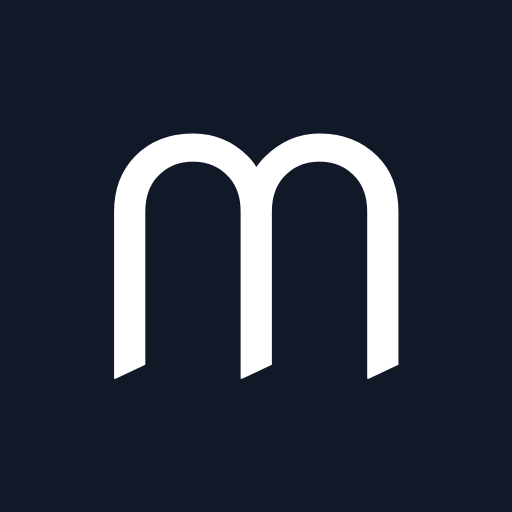
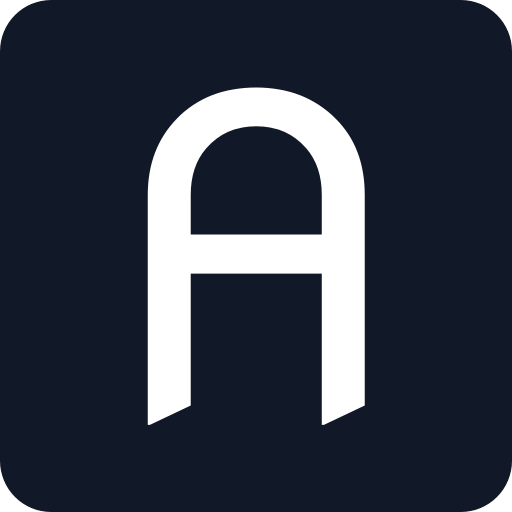
added items.block_id and connected backend changes

diff --git a/backend/src/repository/items.repository.postgres.ts b/backend/src/repository/items.repository.postgres.ts
@@ -23,23 +23,38 @@ export async function getPracticeBlockRepository(
           SELECT COUNT(*) AS learned_count
           FROM user_items ui
           JOIN items i ON ui.item_id = i.id
-          JOIN block_items bi ON i.id = bi.item_id
-          JOIN blocks b ON bi.block_id = b.id
+          JOIN blocks b ON i.block_id = b.id
           WHERE b.category_id = 4
             AND b.language_id = $2
             AND ui.user_id = (SELECT user_id FROM user_cte)
             AND ui.learned_at IS NOT NULL
         ),
-        block_to_learn_cte as (
-          SELECT b.id AS block_id, ub.progress
+        block_to_learn_cte as ( 
+          SELECT b.id AS block_id, ub.progress AS block_progress
           FROM blocks b
           LEFT JOIN user_blocks ub ON b.id = ub.block_id AND ub.user_id = (SELECT user_id FROM user_cte)
-          JOIN categories c ON c.id = b.category_id AND b.category_id in (1,2) AND b.language_id = $2
           WHERE ub.finished_at IS NULL
             AND (ub.next_at IS NULL OR ub.next_at < NOW())
             AND b.sequence <= (SELECT learned_count FROM learned_count_cte)
+            AND b.language_id = $2
+            AND b.category_id IN (1, 2)
           ORDER BY ub.next_at ASC NULLS LAST, b."sequence"
           LIMIT 1
+        ),
+        has_info_cte AS (
+          SELECT i.id
+          FROM items i
+          JOIN blocks b ON i.block_id = b.id
+          WHERE b.language_id = $2
+            AND b.note_id IS NOT NULL
+
+          UNION
+
+          SELECT bi.item_id AS id
+          FROM block_items bi
+          JOIN blocks b ON bi.block_id = b.id
+          WHERE b.language_id = $2
+            AND b.note_id IS NOT NULL
         )
         SELECT
           i.id,
@@ -47,13 +62,16 @@ export async function getPracticeBlockRepository(
           i.translation,
           i.pronunciation,
           i.audio,
-          COALESCE((select progress from block_to_learn_cte), 0) AS progress,
-          b.note_id IS NOT NULL AS "hasContextInfo",
+          COALESCE((select block_progress from block_to_learn_cte), 0) AS progress,          
+          EXISTS ( 
+            SELECT 1
+            FROM has_info_cte
+            WHERE has_info_cte.id = i.id
+          ) AS "hasContextInfo",
           (b.note_id IS NOT NULL and i.sequence = 1) AS "showContextInfo",
           b.id AS "blockId"
         FROM items i
-        JOIN block_items bi ON bi.item_id = i.id 
-        JOIN blocks b ON b.id = bi.block_id AND b.id = (SELECT block_id FROM block_to_learn_cte)
+        JOIN blocks b ON b.id = i.block_id AND b.id = (SELECT block_id FROM block_to_learn_cte)
       `;
 
       const res = await withDbClient(db, async (client) => {
@@ -86,18 +104,25 @@ export async function getPracticeItemsRepository(
 
     const runQuery = async (): Promise<Item[]> => {
       const query = `
-        WITH user_cte AS (
+        WITH user_cte AS ( 
           SELECT id AS user_id 
           FROM users 
           WHERE uid = $1
         ),
-        has_info_cte AS (
-          SELECT bi.item_id
+        has_info_cte AS ( 
+          SELECT i.id
+          FROM items i
+          JOIN blocks b ON i.block_id = b.id
+          WHERE b.language_id = $2
+            AND b.note_id IS NOT NULL
+
+          UNION
+
+          SELECT bi.item_id AS id
           FROM block_items bi
           JOIN blocks b ON bi.block_id = b.id
-          WHERE b.category_id IN (1,2)
+          WHERE b.language_id = $2
             AND b.note_id IS NOT NULL
-            AND b.language_id = $2
         )
         SELECT
           i.id,
@@ -106,20 +131,15 @@ export async function getPracticeItemsRepository(
           i.pronunciation,
           i.audio,
           COALESCE(ui.progress, 0) AS progress,
-          EXISTS (
+          EXISTS ( 
             SELECT 1
             FROM has_info_cte
-            WHERE has_info_cte.item_id = i.id
+            WHERE has_info_cte.id = i.id
           ) AS "hasContextInfo",
-          EXISTS (
-            SELECT 1
-            FROM has_info_cte
-            WHERE has_info_cte.item_id = i.id AND i.sequence = 1 AND ui.progress IS NULL
-          ) AS "showContextInfo"
+          FALSE AS "showContextInfo" 
         FROM items i 
         LEFT JOIN user_items ui ON i.id = ui.item_id AND ui.user_id = (SELECT user_id FROM user_cte)
-        LEFT JOIN block_items bi ON i.id = bi.item_id 
-        JOIN blocks b ON b.id = bi.block_id AND b.category_id in (1,2,4)
+        JOIN blocks b ON b.id = i.block_id 
         WHERE ui.mastered_at IS NULL
           AND (ui.next_at IS NULL OR ui.next_at < NOW())
           AND (b.category_id = 4 OR ui.progress is not null)
@@ -271,10 +291,20 @@ export async function getItemInfoRepository(
         b.name AS blockName,
         n.note AS blockExplanation
       FROM blocks b
+      JOIN notes n ON b.note_id = n.id
+      WHERE b.id = $1
+
+      UNION
+
+      SELECT 
+        b.id AS blockId,
+        b.sequence AS blockSequence,
+        b.name AS blockName,
+        n.note AS blockExplanation
+      FROM blocks b
       JOIN block_items bi ON b.id = bi.block_id
       JOIN notes n ON b.note_id = n.id
-      WHERE bi.item_id = $1
-        AND b.category_id = 1;
+      WHERE b.id = $1
     `;
 
     const res = await withDbClient(db, async (client) => {
@@ -284,7 +314,7 @@ export async function getItemInfoRepository(
     return res.rows;
   } catch (error) {
     throw new Error(
-      `Error in getItemInforRepository: ${
+      `Error in getItemInfoRepository: ${
         (error as any).message
       } | db type: ${typeof db} | itemId: ${itemId}`
     );
@@ -311,9 +341,8 @@ export async function getUserItemsListRepository(
           SELECT bi.item_id
           FROM block_items bi
           JOIN blocks b ON bi.block_id = b.id
-          WHERE b.category_id IN (1,2)
+          WHERE b.language_id = $2
             AND b.note_id IS NOT NULL
-            AND b.language_id = $2
         )
         SELECT
           i.id,
@@ -333,8 +362,7 @@ export async function getUserItemsListRepository(
           FALSE AS "showContextInfo"
         FROM items i 
         JOIN user_items ui ON i.id = ui.item_id AND ui.user_id = (SELECT user_id FROM user_cte)
-        LEFT JOIN block_items bi ON i.id = bi.item_id
-        LEFT JOIN blocks b ON bi.block_id = b.id
+        JOIN blocks b ON i.block_id = b.id
         WHERE b.category_id = 4
           AND b.language_id = $2
         ORDER BY

diff --git a/backend/src/utils/items.utils.ts b/backend/src/utils/items.utils.ts
@@ -2,19 +2,15 @@ import { Item } from "../../../shared/types/dataTypes";
 
 export default function sortItemsEvenOdd(items: Item[]): Item[] {
   try {
-    // Sorts items even first, then odd items. Stable sort by original index.
-    return items
-      .map((item, idx) => ({ item, idx }))
-      .sort((a, b) => {
-        const isEvenA = a.item.progress % 2 === 0;
-        const isEvenB = b.item.progress % 2 === 0;
-        if (isEvenA && !isEvenB) return -1;
-        if (!isEvenA && isEvenB) return 1;
-        // Stable: fallback to original index
-        return a.idx - b.idx;
-      })
-      .map(({ item }) => item);
+    // Sorts items even first, then odd items.
+    return items.sort((a, b) => {
+      const isEvenA = a.progress % 2 === 0;
+      const isEvenB = b.progress % 2 === 0;
+      if (isEvenA && !isEvenB) return -1;
+      if (!isEvenA && isEvenB) return 1;
+      return 0;
+    });
   } catch (error) {
-    throw new Error(`Error in sortItemsByProgress: ${(error as any).message}`);
+    throw new Error(`Error in sortItemsEvenOdd: ${(error as any).message}`);
   }
 }

diff --git a/backend/src/services/items.service.ts b/backend/src/services/items.service.ts
@@ -15,7 +15,7 @@ import {
 } from "../repository/items.repository.postgres";
 import {
   getScoreRepository,
-  updateUserScoreRepository,
+  updateUserPracticeBlocksRepository,
 } from "../repository/user.repository.postgres";
 import { addAudioSuffixToItems, formatDatesShort } from "../utils/update.utils";
 import sortItemsEvenOdd from "../utils/items.utils";
@@ -60,7 +60,7 @@ export async function updateUserPracticeService(
   db: PostgresClient,
   uid: string,
   items: Item[],
-  onRoundEnd: boolean,
+  onPracticeBlockEnd: boolean,
   languageId: number
 ): Promise<UserScore[]> {
   const blockId = items[0]?.blockId;
@@ -108,8 +108,8 @@ export async function updateUserPracticeService(
     );
   }
 
-  if (onRoundEnd) {
-    await updateUserScoreRepository(db, uid, languageId);
+  if (onPracticeBlockEnd) {
+    await updateUserPracticeBlocksRepository(db, uid, languageId);
   }
 
   return await getScoreRepository(db, uid);

diff --git a/frontend/src/App.tsx b/frontend/src/App.tsx
@@ -29,7 +29,7 @@ export default function App() {
               path="/"
               element={
                 <div className="flex w-full max-w-[450px] flex-col items-center justify-start gap-4 px-4 pt-6 text-center">
-                  <h1>Minidril</h1>
+                  <h1>Angličtina</h1>
 
                   <p>
                     Trénujte 400 slovíček či 200 vět za 20 minut denně, a
@@ -45,7 +45,7 @@ export default function App() {
                   )}
                   <p className="notice">aplikace v testovacím režimu</p>
                   <p className="">
-                    Rychlý dril. Učební kartičky. Poslouchání a mluvení, žádné
+                    Učební kartičky. Rychlý dril. Poslouchání a mluvení, žádné
                     psaní. Procvičování samostatných slovíček i gramatiky ve
                     větách.
                   </p>

diff --git a/backend/src/controllers/items.controller.ts b/backend/src/controllers/items.controller.ts
@@ -63,15 +63,17 @@ export async function patchPracticeController(
     }
 
     const uid: string = (req as any).user.uid;
-    const { items, onBlockEnd }: { items: Item[]; onBlockEnd: boolean } =
-      req.body;
+    const {
+      items,
+      onPracticeBlockEnd,
+    }: { items: Item[]; onPracticeBlockEnd: boolean } = req.body;
     const languageId: number = parseInt((req as any).params.languageId, 10);
 
     const score: UserScore[] = await updateUserPracticeService(
       postgresDBPool,
       uid,
       items,
-      onBlockEnd,
+      onPracticeBlockEnd,
       languageId
     );
 

diff --git a/frontend/index.html b/frontend/index.html
@@ -5,9 +5,9 @@
   <meta charset="UTF-8" />
   <link rel="icon" type="image/x-icon" href="/favicon.ico" />
   <meta name="viewport" content="width=device-width, initial-scale=1.0" />
-  <meta name="description" content="Angličtina drillem" />
+  <meta name="description" content="Angličtina" />
   <link rel="manifest" href="/manifest.json" />
-  <title>Minidrill</title>
+  <title>Angličtina</title>
 </head>
 
 <body>

diff --git a/backend/src/repository/user.repository.postgres.ts b/backend/src/repository/user.repository.postgres.ts
@@ -70,7 +70,7 @@ export async function resetUserLanguageRepository(
  * @param uid
  * @param languageId
  */
-export async function updateUserScoreRepository(
+export async function updateUserPracticeBlocksRepository(
   db: PostgresClient,
   uid: string,
   languageId: number

diff --git a/README.md b/README.md
@@ -13,11 +13,12 @@ English learning app focused on maximum repetition per given practice time. By u
 
 The app provides continuous practice of vocabulary and grammar with flashcards.
 
-## Database Principles
+## Database
 
 **Basic tables:**
 
-- `users`
+- `users` - identifies user, link firebase uid with databaser users.id
+- `user_score` - to
 - `items` — vocabulary items or grammar items
 - `blocks` — blocks with linked notes
   - Blocks of category 1 and 2 should be the same size as `backend/config.round` (10), but this is not a necessity
